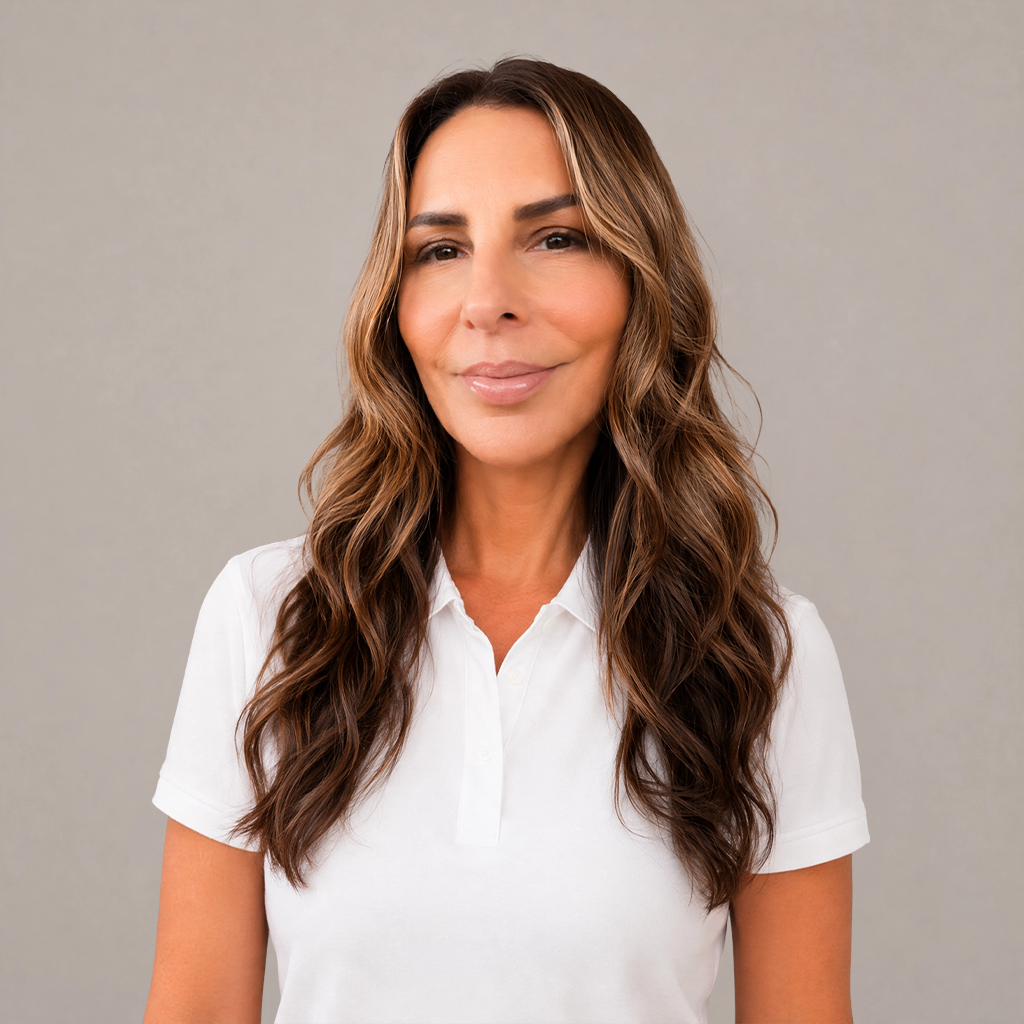
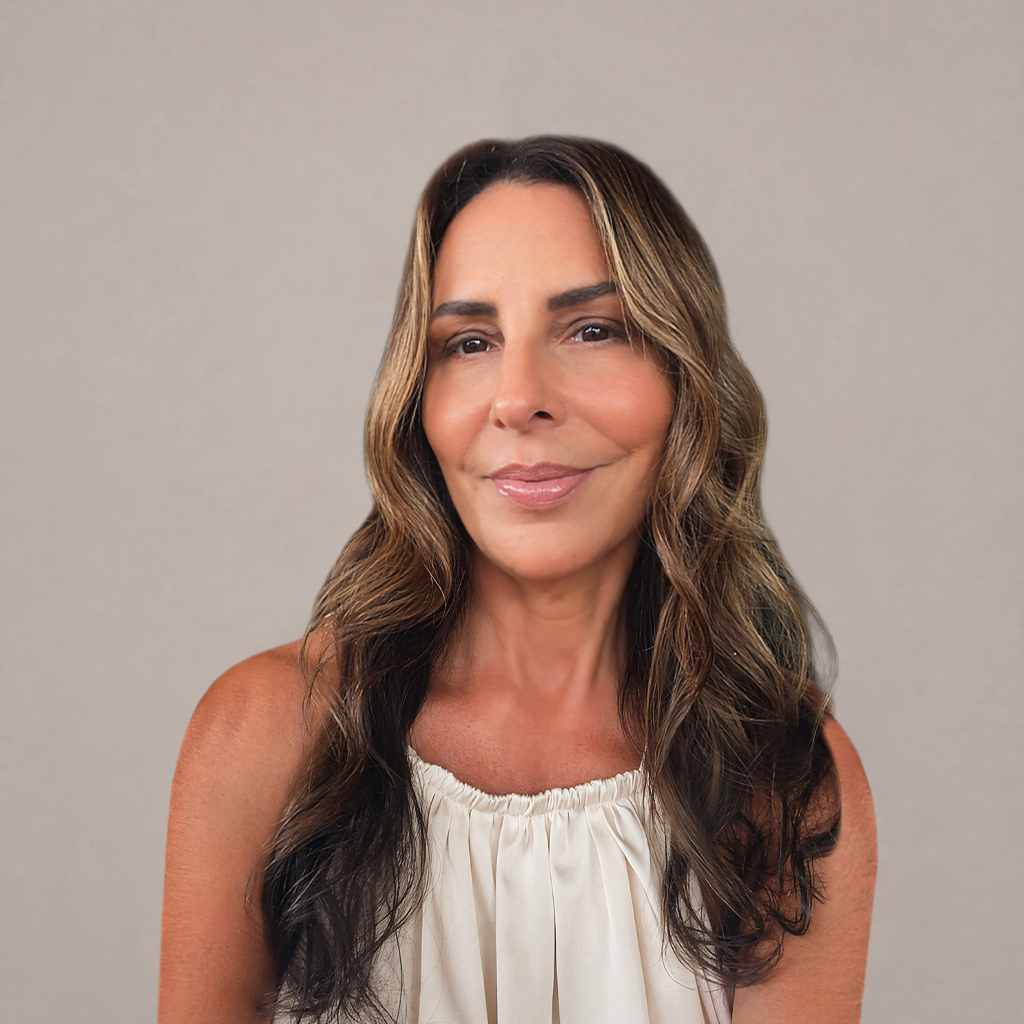
Add files via upload

diff --git a/crew.html b/crew.html
@@ -235,19 +235,23 @@ nav {
   display: none !important;
 }
 
-/* CREW SECTION */
+/* ═══════ CREW SECTION ═══════ */
 .crew-section {
   padding: 6rem 5vw;
   background: #fff;
 }
+
 .crew-container {
   max-width: 1200px;
   margin: 0 auto;
 }
+
+/* ── Header ── */
 .crew-header {
   text-align: center;
   margin-bottom: 4rem;
 }
+
 .crew-header h2 {
   font-size: clamp(2rem, 4vw, 3rem);
   font-weight: 800;
@@ -255,6 +259,7 @@ nav {
   margin-bottom: 1rem;
   letter-spacing: -0.02em;
 }
+
 .crew-header p {
   color: var(--text-muted);
   font-size: 1.1rem;
@@ -262,34 +267,43 @@ nav {
   margin: 0 auto;
 }
 
-/* TOP ROW — Jose & Hilda */
-.crew-top-row {
+/* ── Filas del equipo ── */
+.crew-top-row,
+.crew-row {
   display: flex;
   justify-content: center;
   gap: 2.5rem;
   margin-bottom: 2.5rem;
   flex-wrap: wrap;
 }
-.crew-top-row .crew-member { width: 240px; flex-shrink: 0; }
+
+.crew-row:last-child {
+  margin-bottom: 0;
+}
+
+/* ── TOP ROW: 2 miembros (Jose & Hilda) ── */
+.crew-top-row .crew-member {
+  width: 260px;
+  flex-shrink: 0;
+}
+
 .crew-top-row .crew-member-image {
-  width: 240px;
-  height: 240px;
+  width: 260px;
+  height: 260px;
 }
 
-/* BOTTOM ROW — 5 miembros */
-.crew-bottom-row {
-  display: flex;
-  justify-content: center;
-  gap: 2rem;
-  flex-wrap: wrap;
-}
-.crew-bottom-row .crew-member { width: 200px; flex-shrink: 0; }
-.crew-bottom-row .crew-member-image {
-  width: 200px;
-  height: 200px;
+/* ── Filas de 3 miembros ── */
+.crew-row-3 .crew-member {
+  width: 220px;
+  flex-shrink: 0;
 }
 
-/* CREW CARD — sin caja blanca */
+.crew-row-3 .crew-member-image {
+  width: 220px;
+  height: 220px;
+}
+
+/* ── CREW CARD ── */
 .crew-member {
   background: transparent;
   border-radius: 16px;
@@ -297,29 +311,39 @@ nav {
   box-shadow: none;
   transition: transform 0.4s cubic-bezier(0.34, 1.56, 0.64, 1);
 }
-.crew-member:hover { transform: translateY(-8px); }
 
-/* IMAGEN circular */
+.crew-member:hover {
+  transform: translateY(-8px);
+}
+
+/* ── IMAGEN circular ── */
 .crew-member-image {
   position: relative;
   overflow: hidden;
-  border-radius: 50%;        /* ← círculo */
+  border-radius: 50%;
   background: #c8d8e8;
 }
+
 .crew-member-image img {
-  width: 100%; height: 100%;
+  width: 100%;
+  height: 100%;
   object-fit: cover;
   object-position: top;
   transition: transform 0.6s ease;
   display: block;
 }
-.crew-member:hover .crew-member-image img { transform: scale(1.06); }
 
-/* Gradiente azul en la parte inferior al hacer hover */
+.crew-member:hover .crew-member-image img {
+  transform: scale(1.06);
+}
+
+/* ── Gradiente azul en hover ── */
 .crew-member-image::after {
   content: '';
   position: absolute;
-  bottom: 0; left: 0; right: 0;
+  bottom: 0;
+  left: 0;
+  right: 0;
   height: 55%;
   background: linear-gradient(
     to top,
@@ -330,36 +354,140 @@ nav {
   opacity: 0;
   transition: opacity 0.4s ease;
   z-index: 1;
-  border-radius: 0 0 50% 50%;  /* ← sigue la curva del círculo */
+  border-radius: 0 0 50% 50%;
   pointer-events: none;
 }
-.crew-member:hover .crew-member-image::after { opacity: 1; }
 
-/* INFO debajo de la imagen, sin fondo */
+.crew-member:hover .crew-member-image::after {
+  opacity: 1;
+}
+
+/* ── INFO debajo de la imagen ── */
 .crew-member-info {
-  padding: 0.75rem 0.25rem 0;
+  padding: 0.85rem 0.25rem 0;
   text-align: center;
   background: transparent;
 }
+
 .crew-member-info h3 {
-  font-size: 0.95rem;
+  font-size: 1rem;
   font-weight: 700;
   color: var(--text-dark);
-  margin-bottom: 0.25rem;
+  margin-bottom: 0.3rem;
 }
-.crew-top-row .crew-member-info h3 { font-size: 1.15rem; }
+
+.crew-top-row .crew-member-info h3 {
+  font-size: 1.2rem;
+}
+
 .crew-member-info .role {
   color: var(--primary);
-  font-size: 0.75rem;
+  font-size: 0.78rem;
   font-weight: 600;
   text-transform: uppercase;
   letter-spacing: 0.06em;
 }
-.crew-top-row .crew-member-info .role { font-size: 0.82rem; }
-.role-founder {
-  display: inline-flex; align-items: center; gap: 0.35rem;
+
+.crew-top-row .crew-member-info .role {
+  font-size: 0.85rem;
 }
-.role-founder i { color: #f59e0b; font-size: 0.72rem; }
+
+.role-founder {
+  display: inline-flex;
+  align-items: center;
+  gap: 0.35rem;
+}
+
+.role-founder i {
+  color: #f59e0b;
+  font-size: 0.75rem;
+}
+
+/* ═══════ RESPONSIVE ═══════ */
+
+/* Tablet */
+@media (max-width: 1024px) {
+  .crew-top-row .crew-member {
+    width: 220px;
+  }
+  
+  .crew-top-row .crew-member-image {
+    width: 220px;
+    height: 220px;
+  }
+  
+  .crew-row-3 .crew-member {
+    width: 190px;
+  }
+  
+  .crew-row-3 .crew-member-image {
+    width: 190px;
+    height: 190px;
+  }
+}
+
+/* Mobile */
+@media (max-width: 768px) {
+  .crew-section {
+    padding: 4rem 4vw;
+  }
+  
+  .crew-header {
+    margin-bottom: 3rem;
+  }
+  
+  .crew-top-row,
+  .crew-row {
+    gap: 2rem;
+    margin-bottom: 2rem;
+  }
+  
+  .crew-top-row .crew-member,
+  .crew-row-3 .crew-member {
+    width: 180px;
+  }
+  
+  .crew-top-row .crew-member-image,
+  .crew-row-3 .crew-member-image {
+    width: 180px;
+    height: 180px;
+  }
+  
+  .crew-member-info h3 {
+    font-size: 0.95rem;
+  }
+  
+  .crew-top-row .crew-member-info h3 {
+    font-size: 1.05rem;
+  }
+}
+
+/* Mobile pequeño */
+@media (max-width: 480px) {
+  .crew-top-row,
+  .crew-row {
+    gap: 1.5rem;
+  }
+  
+  .crew-top-row .crew-member,
+  .crew-row-3 .crew-member {
+    width: 150px;
+  }
+  
+  .crew-top-row .crew-member-image,
+  .crew-row-3 .crew-member-image {
+    width: 150px;
+    height: 150px;
+  }
+  
+  .crew-member-info h3 {
+    font-size: 0.88rem;
+  }
+  
+  .crew-member-info .role {
+    font-size: 0.72rem;
+  }
+}
 
 /* FOOTER */
 footer { background: #1a2838; }
@@ -828,7 +956,7 @@ footer { background: #1a2838; }
       <p>Our skilled professionals are dedicated to delivering exceptional results on every project</p>
     </div>
 
-    <!-- TOP ROW: Jose + Hilda -->
+    <!-- TOP ROW: Jose + Hilda (2 miembros) -->
     <div class="crew-top-row">
       <div class="crew-member anim-left">
         <div class="crew-member-image">
@@ -853,21 +981,21 @@ footer { background: #1a2838; }
       </div>
     </div>
 
-    <!-- BOTTOM ROW: 5 miembros -->
-    <div class="crew-bottom-row">
+    <!-- MIDDLE ROW: 3 miembros -->
+    <div class="crew-row crew-row-3">
       <div class="crew-member anim-left">
         <div class="crew-member-image">
-          <img src="img/Michel-Vega.png" alt="Alain Serrano">
+          <img src="img/Michel-Vega.png" alt="Michel Vega">
         </div>
         <div class="crew-member-info">
-          <h3>Michel Vega.</h3>
+          <h3>Michel Vega</h3>
           <div class="role">Logistics</div>
         </div>
       </div>
 
       <div class="crew-member anim-left">
         <div class="crew-member-image">
-          <img src="img/Raudel-Hurtado.png" alt="Max Diaz">
+          <img src="img/Raudel-Hurtado.png" alt="Raudel Hurtado">
         </div>
         <div class="crew-member-info">
           <h3>Raudel Hurtado</h3>
@@ -877,17 +1005,20 @@ footer { background: #1a2838; }
 
       <div class="crew-member anim-left">
         <div class="crew-member-image">
-          <img src="img/Randy-Llorca.png" alt="Domingo Garcias Flores">
+          <img src="img/Randy-Llorca.png" alt="Randy Llorca">
         </div>
         <div class="crew-member-info">
           <h3>Randy Llorca</h3>
           <div class="role">Project Manager</div>
         </div>
       </div>
+    </div>
 
+    <!-- BOTTOM ROW: 3 miembros -->
+    <div class="crew-row crew-row-3">
       <div class="crew-member anim-right">
         <div class="crew-member-image">
-          <img src="img/Alain-Gomez.png" alt="Luis Trabanino">
+          <img src="img/Alain-Gomez.png" alt="Alain Gomez">
         </div>
         <div class="crew-member-info">
           <h3>Alain Gomez</h3>
@@ -904,8 +1035,17 @@ footer { background: #1a2838; }
           <div class="role">Project Manager</div>
         </div>
       </div>
-    </div>
 
+      <div class="crew-member anim-right">
+        <div class="crew-member-image">
+          <img src="img/Christian-Fernandez.png" alt="Sexto Miembro">
+        </div>
+        <div class="crew-member-info">
+          <h3>Christian Fernandez</h3>
+          <div class="role">Operation Manager</div>
+        </div>
+      </div>
+    </div>
   </div>
 </section>
 